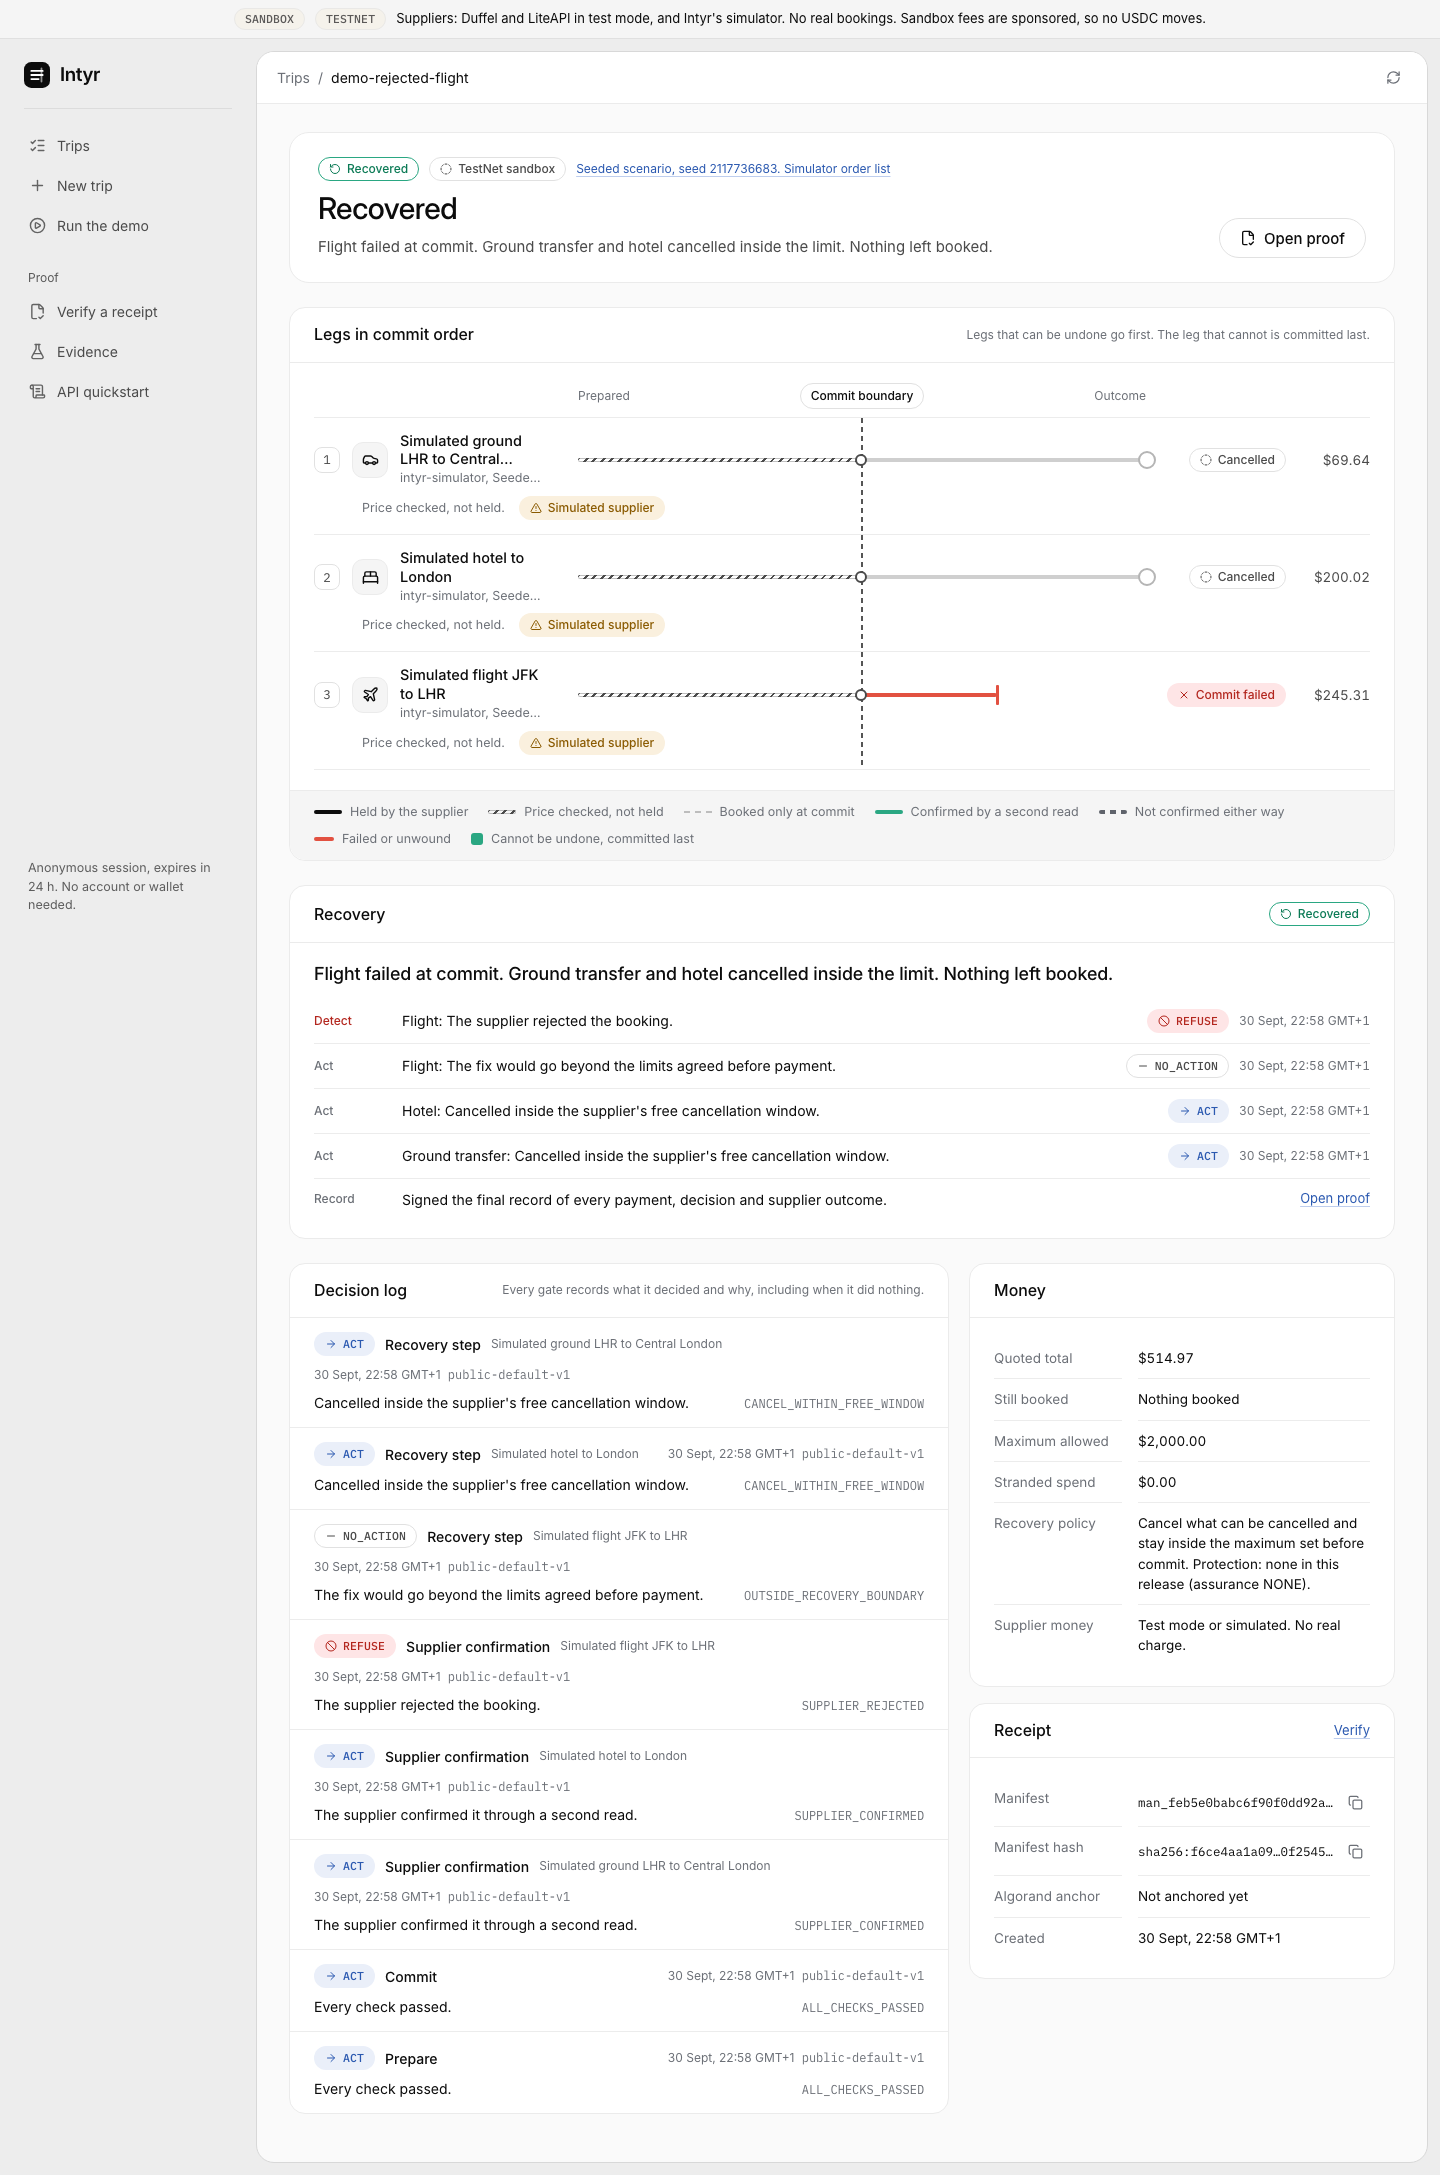
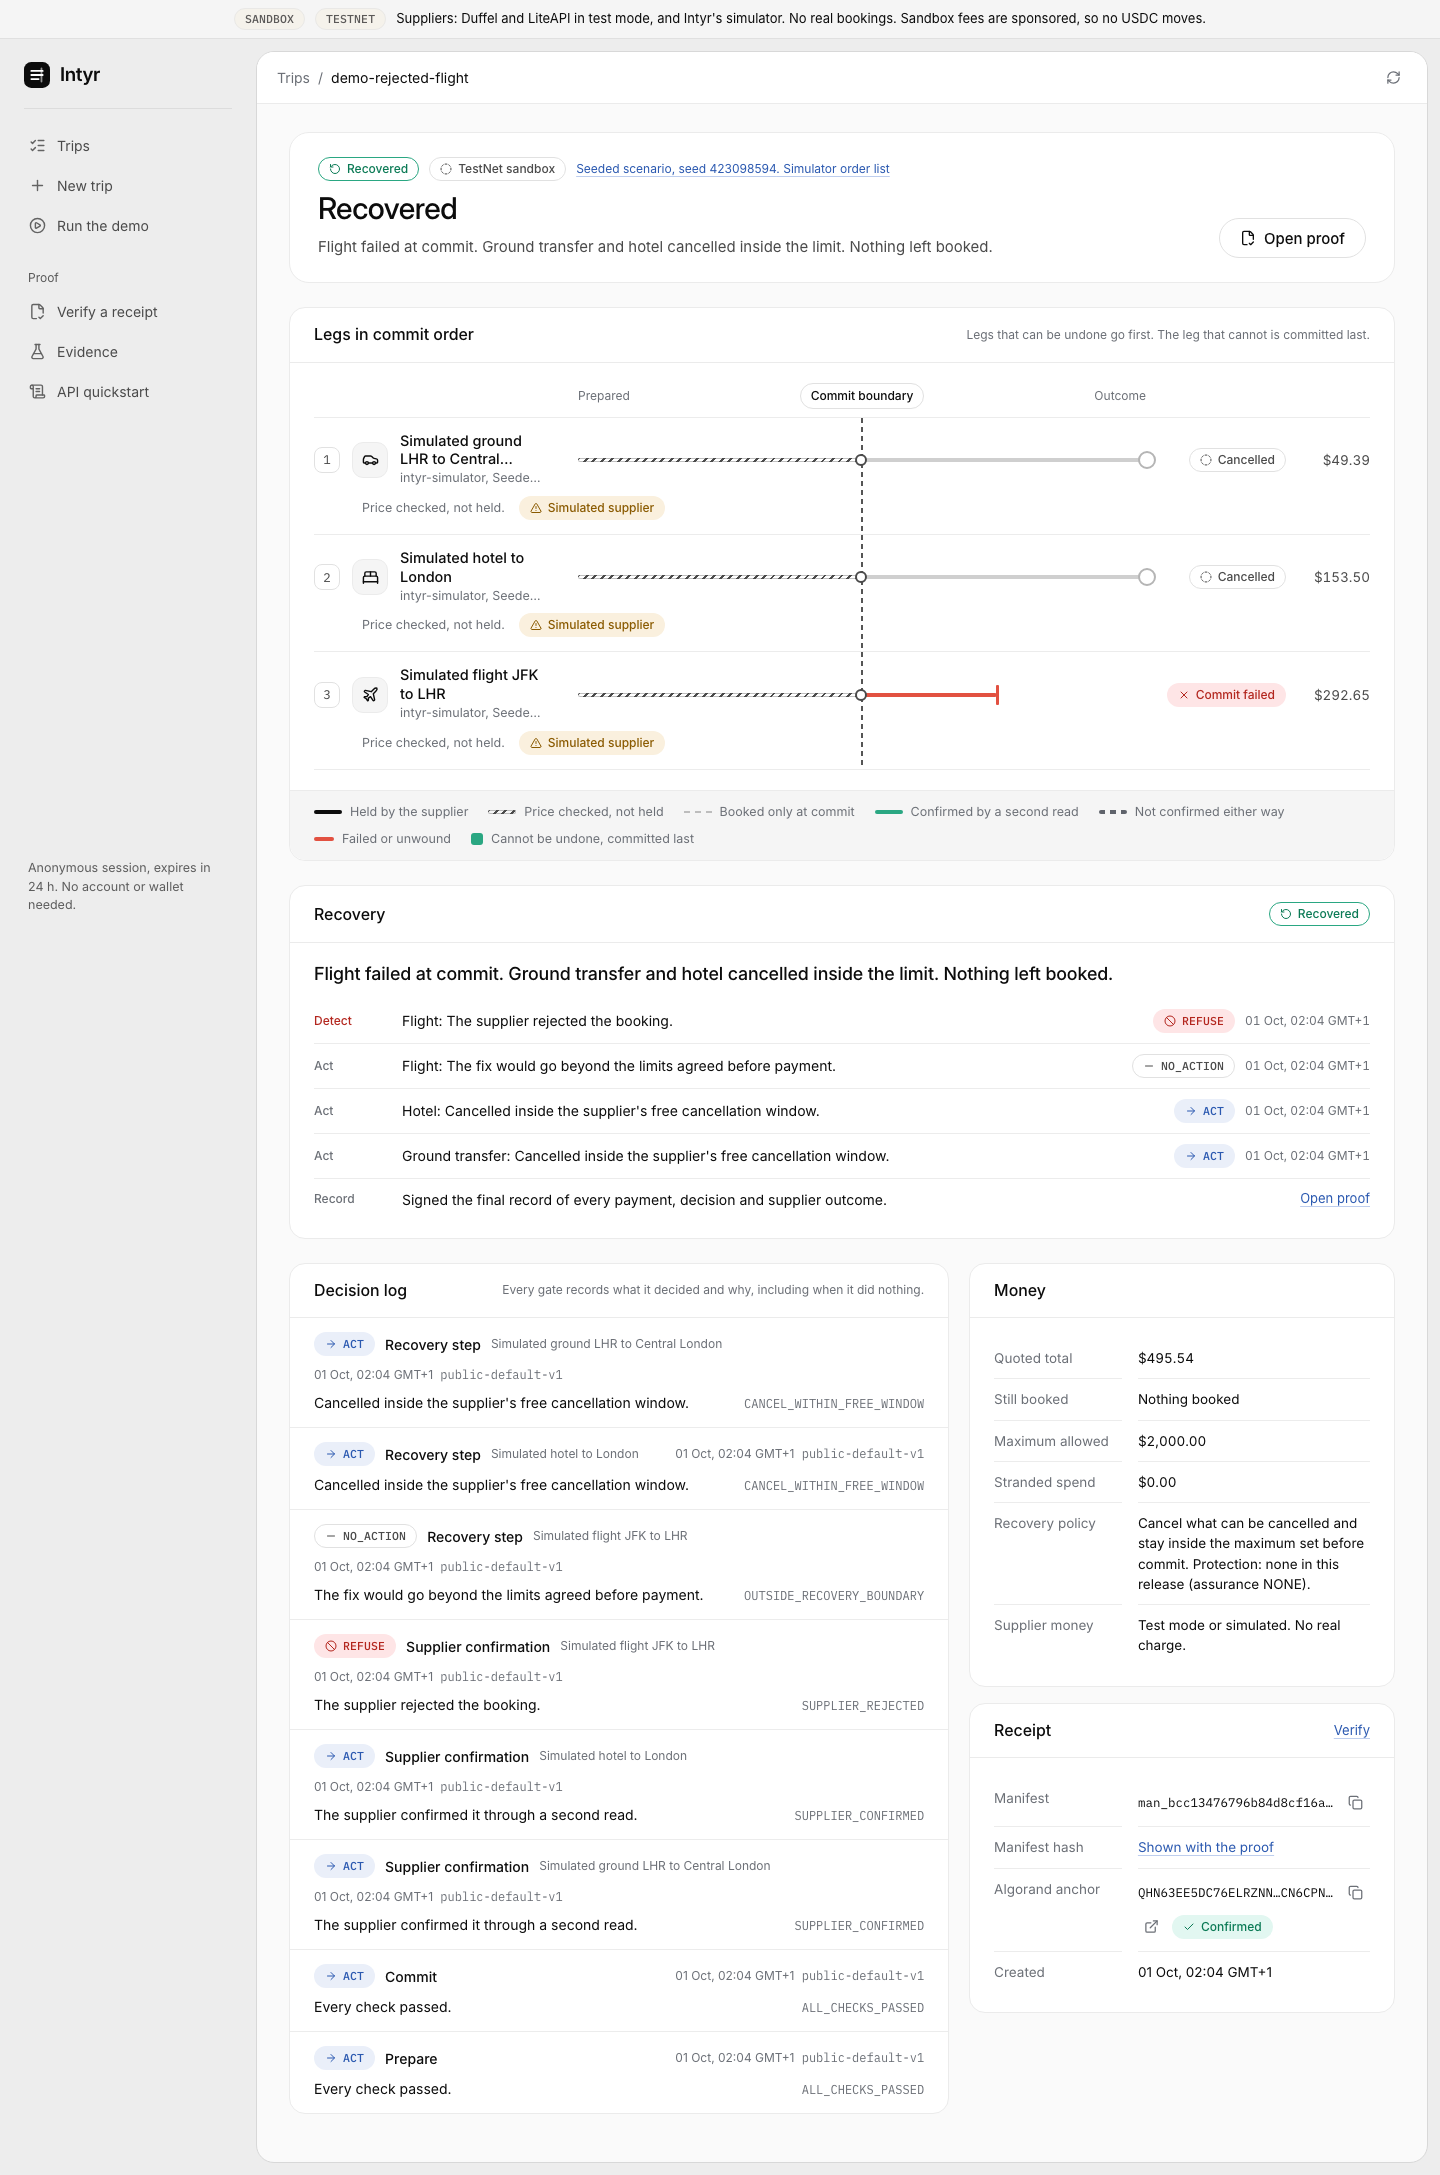
docs(web): recapture the UI evidence against the deployed build
The committed screenshots predated anchoring, so the verify page showed a
TestNet receipt as not anchored. Every shot is retaken against commit
99a3775, where receipts read PROOF_VERIFIED, and two shots add the Duffel
and LiteAPI test-mode trip that a person approved before commit.

Changed region(s): [[0.7812, 0.8317, 0.9062, 0.8933], [0.7812, 0.4621, 0.875, 0.4929], [0.6875, 0.8625, 0.75, 0.8933]]

diff --git a/docs/web-ui.md b/docs/web-ui.md
@@ -2,7 +2,7 @@
 
 The web app is the reference client and oversight console for the Intyr API. The product is the x402-paid API. The UI shows what the API decided and why, and never shows more than the server recorded. It is served by the same Cloudflare Worker as the API, so the landing page, the sandbox and the verifier share one origin with the paid routes.
 
-Screenshots of live sandbox runs of every demo scenario are in [docs/evidence/ui](evidence/ui). They were captured on 2026-09-30 against the deployed TestNet sandbox with seeded simulated suppliers.
+Screenshots of live sandbox runs are in [docs/evidence/ui](evidence/ui). They were captured on 2026-10-01 against the deployed Worker at commit 99a3775: every demo scenario on seeded simulated suppliers, and one trip on Duffel and LiteAPI in test mode that a person approved before Intyr committed it (`trip-real-suppliers-*.png`).
 
 ## Routes
 
